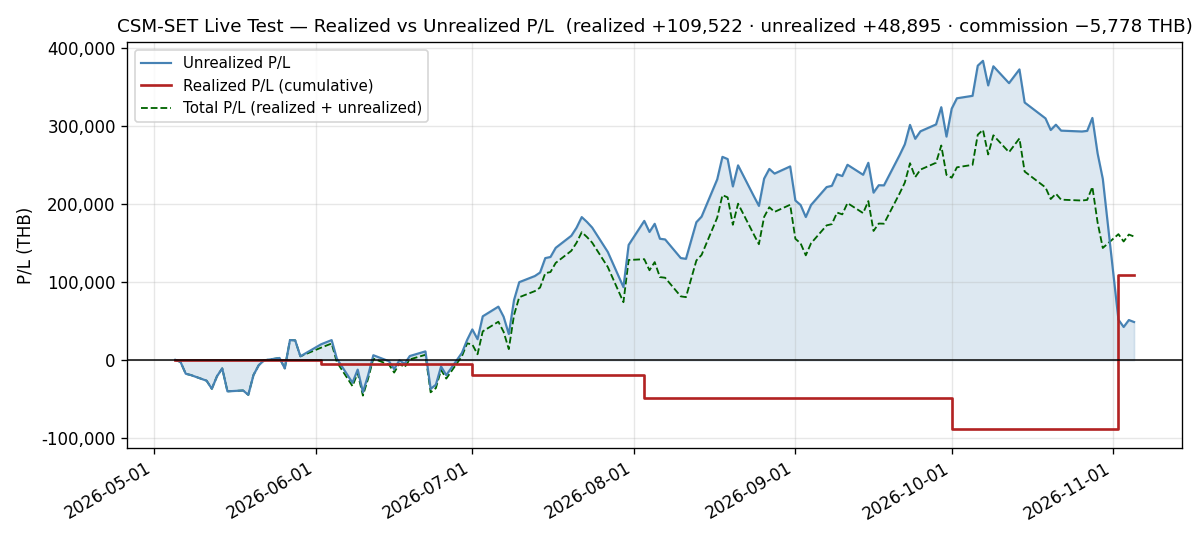
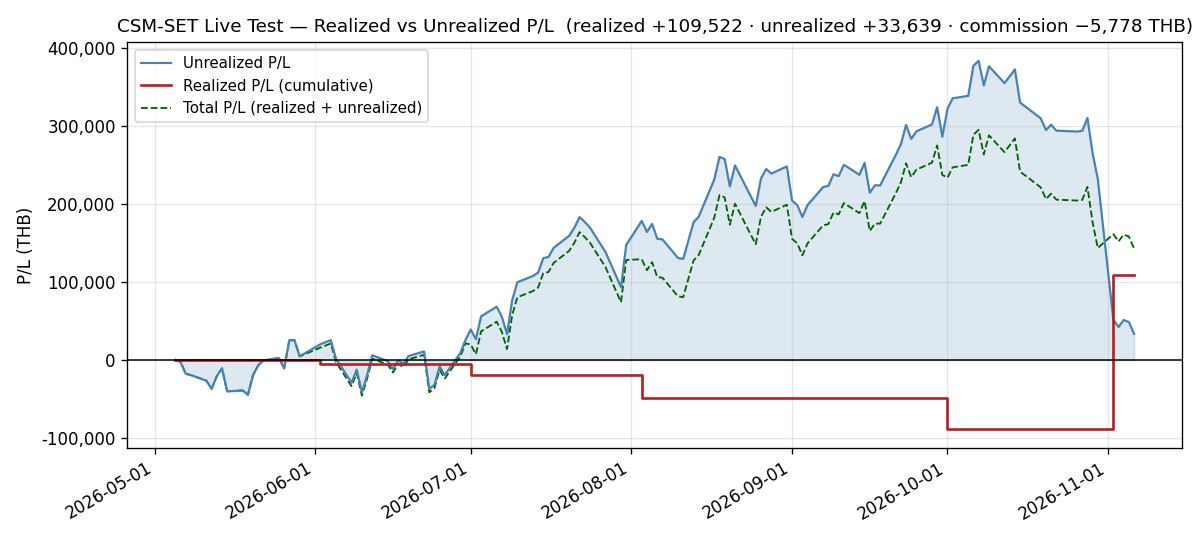
docs(live-test): add the 2026-11-06 daily log — scored session 5 of 41, NAV −1.1949%, the window's first close below NAV0; the first scheduled refresh on the TK-0657 image ran clean; 3 of 48 holiday polls banked
NAV 1,261,550.32 (−15,256.00, −1.1949%), −0.0483% on NAV0; equals
daily_performance to the satang. 1 up / 9 down: KCE −12.08% (its largest
one-session fall in the panel), SMT −8.33% and HANA −9.09% took −8,650.00.

- Breaker TRIPPED, rolling drawdown −10.7489% (from −9.6696%), the deepest in
  the published NAV series; recovery line 1,342,809.70 is 81,259.38 away.
  Regime BEAR, fifth session; SET −2.1556%, its largest fall since 2026-09-30.
- Refresh 211 / 0 in 126.499 s on image 7e49ed4f6a87; no bound fired, no
  manual trigger (access-log fields parsed, with a positive control).
- Holiday polls: 10 of 94 banked since the settfex 0.26.3 upgrade; on the
  current image 3 of 48, and each of the other 45 logged one INFO line
  (FetchError status_code=401).
- TK-0657 item 3 routed to session:observability (#464) with the operator's
  rulings; no reply at log time.
- pnl.csv +1 row (126); only the P/L PNG regenerated (90522474 -> 14ec8e20).

Claude-Session: https://claude.ai/code/session_01VKyqnmKmz6Hh9ErHRFMhFr

diff --git a/docs/live-test/daily/2026-11-06.md b/docs/live-test/daily/2026-11-06.md
@@ -1,0 +1,285 @@
+# Daily Log — 2026-11-06 (Friday)
+
+**As of:** 2026-11-06, Asia/Bangkok
+**Phase:** D — Final Evaluation & Documentation
+**Day:** 127 / 36 trading days remaining in 2026
+**Status:** 🟢 **SCORED — session 5 of 41 in the registered window** (`reports/2026-10-27-forward-scoring-pre-registration.md`). **NAV closes at 1,261,550.32 THB, −15,256.00 (−1.1949%) on the session and −0.0483% on NAV₀ = 1,262,159.89**, the window's first close below NAV₀. **1 name rose and 9 fell**; KCE (−12.08%), SMT (−8.33%) and HANA (−9.09%) together took −8,650.00. 🔴 **The circuit breaker stays TRIPPED**, and its rolling drawdown deepened −9.6696% → **−10.7489%**, the deepest in the published NAV series. 🔴 **The regime stays BEAR**; the SET fell −2.1556%. 🟢 **The first scheduled refresh on the TK-0657 image `7e49ed4f6a87` ran clean** (211 / 0), and no bound fired. On this image **3 of 48 holiday polls banked**, and each of the other 45 logged one INFO line, all `FetchError status_code=401` (Risk Note 7). Total Return on NAV is **+12.64%**.
+
+---
+
+## Execution Summary
+
+**No trades today.** The book is the one recorded from the 2026-11-02 rotation (`configs/live_portfolio.yaml` at `2f846b0`), unchanged since. Realized P/L for the session is **0.00 THB** and no commission was paid. **The breaker's safe mode acts only at a month-end evaluation**, so equity at 18.4989% of NAV creates no trade. The next evaluation is **2026-11-30** (registration §3).
+
+---
+
+## Portfolio Snapshot
+
+> 🟢 **Every figure in this section is SCORED-WINDOW data, session 5.** It is `configs/live_portfolio.yaml` at `2f846b0` repriced against the 2026-11-06 bar of `data/processed/prices_latest.parquet`, and it **equals** the `db_gateway.daily_performance` row the 18:00 refresh wrote.
+
+`Avg Cost` is the commission-inclusive per-share basis carried from `configs/live_portfolio.yaml` (4-decimal precision); `Cost Basis = shares × Avg Cost`, and `U.PL % = MV / Cost Basis − 1`.
+
+| # | Symbol | Shares | Avg Cost | Last Price | Market Value (THB) | Cost Basis (THB) | U.PL % |
+|---|--------|-------:|---------:|-----------:|--------------------:|-----------------:|-------:|
+| 1 | IRPC | 11,300 | 2.3037 | 2.42 | 27,346.00 | 26,031.81 | +5.05% |
+| 2 | HANA | 600 | 35.8070 | 37.50 | 22,500.00 | 21,484.20 | +4.73% |
+| 3 | GUNKUL | 6,100 | 2.9246 | 4.78 | 29,158.00 | 17,840.06 | +63.44% |
+| 4 | INSET | 8,400 | 3.0848 | 4.46 | 37,464.00 | 25,912.32 | +44.58% |
+| 5 | KCE | 500 | 39.0655 | 58.25 | 29,125.00 | 19,532.75 | +49.11% |
+| 6 | EPG | 3,400 | 5.9099 | 5.45 | 18,530.00 | 20,093.66 | −7.78% |
+| 7 | SMT | 4,000 | 5.8097 | 6.60 | 26,400.00 | 23,238.80 | +13.60% |
+| 8 | CNT | 3,600 | 3.3456 | 3.10 | 11,160.00 | 12,044.16 | −7.34% |
+| 9 | SPRC | 1,200 | 13.8232 | 13.30 | 15,960.00 | 16,587.84 | −3.78% |
+| 10 | SSP | 2,200 | 7.7129 | 7.15 | 15,730.00 | 16,968.38 | −7.30% |
+
+### Portfolio summary
+
+| Metric | Value |
+|--------|-------|
+| Total Cost Basis | 199,733.98 THB |
+| Total Market Value | 233,373.00 THB |
+| Unrealized P/L | +33,639.02 THB (+16.84%) |
+| Realized P/L (today) | 0.00 THB |
+| Realized P/L (cumulative, since inception) | **+109,521.83 THB** |
+| Commission paid (cumulative) | **−5,777.54 THB** |
+
+### Account summary
+
+| Metric | Value |
+|--------|-------|
+| Remaining Cash | 1,028,177.32 THB |
+| Total NAV | 1,261,550.32 THB |
+| Total Return on NAV | +12.64% |
+
+> **Cost-basis note:** Total Cost Basis is **199,733.98 THB**, equal to Σ per-symbol `shares × avg_cost` with a **0.00** delta, unchanged since the rotation.
+>
+> **Above/below cost: 6 up / 4 down.** **EPG crossed below cost** (−7.78%, from +0.68% on 2026-11-05) and joins **CNT** (−7.34%), **SSP** (−7.30%) and **SPRC** (−3.78%).
+>
+> **Equity is 18.4989% of NAV** (233,373.00 of 1,261,550.32), down from 19.4727%. The breaker acts only at the month-end evaluation.
+>
+> **Total P/L check:** realized + unrealized = 109,521.83 + 33,639.02 = **+143,160.85 THB**, down from +158,416.85 by **15,256.00**, exactly the session's NAV change.
+
+---
+
+## Day-over-Day Change (vs Thursday November 5)
+
+| Symbol | Nov 5 Close | Nov 6 Close | Change | Change % | MV Contribution (THB) |
+|--------|------------:|------------:|-------:|---------:|----------------------:|
+| SPRC | 13.20 | 13.30 | +0.10 | +0.76% | +120.00 |
+| CNT | 3.20 | 3.10 | -0.10 | -3.13% | -360.00 |
+| GUNKUL | 4.94 | 4.78 | -0.16 | -3.24% | -976.00 |
+| IRPC | 2.52 | 2.42 | -0.10 | -3.97% | -1,130.00 |
+| INSET | 4.66 | 4.46 | -0.20 | -4.29% | -1,680.00 |
+| SSP | 7.55 | 7.15 | -0.40 | -5.30% | -880.00 |
+| SMT | 7.20 | 6.60 | -0.60 | -8.33% | -2,400.00 |
+| EPG | 5.95 | 5.45 | -0.50 | -8.40% | -1,700.00 |
+| HANA | 41.25 | 37.50 | -3.75 | -9.09% | -2,250.00 |
+| KCE | 66.25 | 58.25 | -8.00 | -12.08% | -4,000.00 |
+| **Total** | | | | **-6.14%** | **-15,256.00** |
+
+**Breadth: 1 up, 9 down, 0 flat.**
+
+> The `Change %` on the Total row is the **market-value** change (−15,256.00 / 248,629.00 = −6.1361%), not the NAV change (−15,256.00 / 1,276,806.32 = −1.1949%). They differ by the cash in the NAV denominator, 80.53% of the prior session's NAV in safe mode.
+
+**Nine of ten names fell, and the three ETRON names took more than half of the loss.**
+
+- **KCE −12.08% (−4,000.00), SMT −8.33% (−2,400.00) and HANA −9.09% (−2,250.00)** took −8,650.00, 56.70% of the session's −15,256.00.
+- **KCE's −12.08% is its largest one-session fall in the panel**, which starts 2024-05-17 for this name. It closed at its lowest since 2026-09-09, and HANA at its lowest since 2026-08-11. No prior close was restated (Notes), so the fall is not a vendor back-adjustment of history.
+- **SMT's −8.33% is its largest fall since 2026-06-23**, and it closed at its lowest since 2026-10-01. **EPG −8.40% (−1,700.00)** closed at its lowest since 2026-06-23 and below cost. **SSP's −5.30% is its largest fall since 2025-09-24.**
+- **SPRC +0.76% (+120.00) was the only riser.**
+- **The book fell −1.1949% against a SET that fell −2.1556%**, a **+0.9607pp** difference. It is a same-session arithmetic result for a book that is 81.50% cash, not a performance comparison (Market Context).
+
+---
+
+## Market Context
+
+| Indicator | Value | Source |
+|-----------|-------|--------|
+| SET Index | 1,465.70 | tvkit (TradingView) |
+| SET Open / High / Low | 1,476.21 / 1,483.20 / 1,461.08 | tvkit |
+| SET 200-day SMA | 1,518.5356 | tvkit (TradingView) |
+| Regime Estimate | BEAR | SET −3.48% below SMA200 |
+
+> ⚠ **This is context, NOT a benchmark comparison, and it must not be read as one.**
+>
+> - **Different price bases.** `SET:SET` is a **price index**; the strategy series above is priced on **dividend-adjusted** bars (since `e04a292`, 2026-08-09). The difference is one-sided in the strategy's favour, and it is not small: measured 2026-09-11 over 2024-03-19 → 2026-09-10, the dividend adjustment is worth **+12.09 percentage points** on this universe, roughly **+4.8%/yr**.
+> - **No alpha, excess return or outperformance figure is computed anywhere in this log.** The registration's tracking error against this index is reported in Risk Note 1 as a risk metric (§5).
+
+---
+
+## Regime State
+
+- **Detected regime:** 🔴 **BEAR**, the fifth session. SET (1,465.70) is **below** SMA200 (1,518.5356) by −3.4794%.
+- **SMA200 position:** 1,518.5356, with the SET closing 52.84 points under it.
+- **3-month return:** −9.63% (window-sensitive — see Notes).
+- **The engine's own `RegimeDetector.detect()` also returns BEAR**: price below SMA200, and a 63-session return of **−9.22%** against its −5% threshold.
+- **No regime-driven action under the registration.** The regime filter is not one of the registered rules (§4). The SET closed −6.15% below its own EMA100 and −3.19% below its EMA200; both are reported and not applied.
+
+**The last six closes read 1,518.59 → 1,507.20 → 1,491.01 → 1,502.09 → 1,497.99 → 1,465.70.**
+
+- **Today:** a **−32.29 point, −2.1556%** session, the second fall in a row. The index is **−9.6301%** below the 2026-09-08 high.
+- **The SET's largest one-session fall since 2026-09-30, and its lowest close since 2026-04-24**, on bars fetched back to 2020-08-26.
+- **Range:** **22.12 points**, against 12.03 the prior session. The index opened at 1,476.21, reached 1,483.20, and closed 4.62 above its low.
+- **Cushion fell −1.2842% → −3.4794%, a −2.1952pp step**, its lowest since 2025-08-01 in a cushion series that starts 2021-06-28. SMA200 rose to **1,518.5356** (+1.0580).
+- **A BEAR→BULL crossing needs the index 52.84 points higher**, +3.60% at today's SMA200.
+
+The 3-month figure moved from −7.74% to −9.63%, its start bar moving from 2026-07-31 (1,623.64) to 2026-08-03 (1,621.90).
+
+---
+
+## Sector Concentration
+
+Groupings are SET-official, as on 2026-11-02. The book is held at about 20% equity by the breaker's safe mode.
+
+| Sector | Market Value (THB) | % of NAV | % of stocks held | Limit (NAV) | Status |
+|--------|--------------------:|---------:|-----------------:|-------------|--------|
+| Energy & Utilities (ENERG) | 88,194 | 6.9909% | 37.7910% | 35% | OK on NAV |
+| Electronic Components (ETRON) | 78,025 | 6.1849% | 33.4336% | 35% | OK on NAV |
+| ICT | 37,464 | 2.9697% | 16.0533% | 35% | OK |
+| Construction Materials (CONMAT) | 18,530 | 1.4688% | 7.9401% | 35% | OK |
+| Construction Services (CONS) | 11,160 | 0.8846% | 4.7820% | — | below the 5% floor by ruling I5 |
+
+- **ENERG still leads at 6.9909% of NAV** (−0.1410pp). **ETRON fell −0.6035pp to 6.1849%** on KCE, HANA and SMT. ICT −0.0961pp on INSET, CONMAT −0.1156pp, CONS −0.0177pp.
+- **The 35% cap is measured on NAV** (I2), and no sector is near it.
+- **As a share of the stocks held, ENERG is 37.79% and ETRON 33.43%.** The two hold 71.22% of the equity sleeve between them. This is recorded for context; it is not the registered measure.
+- **Every position is below the 5% floor**, between 0.8846% (CNT) and 2.9697% (INSET) of NAV. The breaker governs the band (I5), so **these are not deviations**.
+
+---
+
+## Risk Notes
+
+1. 🟢 **SCORED SESSION 5 OF 41.**
+
+   | Measure (registration §5) | Value |
+   |---|---|
+   | NAV₀ (2026-10-30 close) | 1,262,159.89 |
+   | NAV₄ (2026-11-05 close) | 1,276,806.32 |
+   | NAV₅ (2026-11-06 close) | 1,261,550.32 |
+   | r₅ = NAV₅ / NAV₄ − 1 | **−1.1949%** |
+   | Window return to date | **−0.0483%** |
+   | Max drawdown to date (running peak from NAV₀) | **−1.4293%** (2026-11-06, from the 2026-11-02 peak) |
+   | Annualized volatility (n = 5) | 16.77% |
+   | Sharpe, rf = 2% (n = 5) · rf = 0 | −0.20 · −0.08 |
+   | Tracking error vs `SET:SET` (n = 5) | 14.30% |
+
+   **Five returns carry almost no information**, and annualizing them magnifies that. A Sharpe ratio that turned from +4.76 to −0.20 in one session shows how little it says at this sample size. **No criterion is graded before the window ends** (2026-12-30), and §9's power statement applies to every figure here.
+2. 🟢 **`daily_performance` equals this log.** The row reads **1,261,550.32, cash 1,028,177.32**, and `equity_curve` agrees.
+   - `daily_return` (−1.1949%) equals the day-over-day change to within 2×10⁻¹⁹.
+   - `cumulative_return` reads −1.4293% and `combined_drawdown` −1.4293%: both are measured from `entry_date` 2026-11-02. They are not the scored series (§5). They equal the window's drawdown today only because the window's peak is the 2026-11-02 close.
+3. 🔴 **CIRCUIT BREAKER — TRIPPED, threaded one session (I4).**
+   - **Procedure:** `DrawdownCircuitBreaker` with the recorded parameters (60 sessions, −10% trip, −5% recovery held 21 sessions), called with the state carried from 2026-11-05 (TRIPPED, recovery progress 0) on the published NAV series. It returns **TRIPPED**, rolling drawdown **−10.7489%**, equity fraction **0.20**, no transition.
+   - The drawdown deepened from −9.6696% on 2026-11-05, back below the −10% trip line. **It is the deepest rolling drawdown in the published NAV series**, which starts 2026-05-04; the trip session, 2026-10-30, read −10.7057%. The breaker is already TRIPPED, so a deeper drawdown changes nothing.
+   - The 2026-10-07 peak (1,413,483.89) is still the window's high.
+   - **Recovery** starts when the rolling drawdown rises above −5%, at NAV **1,342,809.70**. That is **81,259.38 (+6.4412%)** above today's NAV. From a book 18.50% in stocks, it needs the equity sleeve to rise about **34.82%**.
+   - **The 1,064,000 THB line** (5% below `starting_nav`) has NAV **+197,550.32** (15.66%) above it. Under the registration it is a reporting line and carries no action.
+4. 🔴 **REGIME — BEAR, the fifth session** (Regime State). Under the registration it changes nothing. The transition is recorded in `events/2026-11-02-regime-transition-bull-to-bear.md`.
+5. 🟢 **EXECUTION — CLOSED** by the operator's ruling of 2026-11-04: the operator places every order by hand (registration §12; `events/2026-11-03-rotation-orders-placed-as-limit-orders.md`). Nothing changed since.
+6. 🟢 **REFRESH — the first scheduled firing on the TK-0657 image `7e49ed4f6a87` ran clean.** It started at 11:00:00Z and completed at 11:02:08Z with receipt 211 / 0, in 126.499 s.
+   - **No bound fired.** The container log since the image started holds no "Failed to fetch symbol" line, no "timed out" line and no "daily_refresh exceeded" line, and every symbol came back on attempt 1.
+   - **What this shows, and what it does not.** A clean run shows the bounds do not get in the way of a normal refresh. It does not show them working in production, because nothing hung. That is shown by the tests that shipped with the fix, each seen failing first on a version without its bound. [[TK-0657]]
+7. ⚠ **HOLIDAY POLL — 10 of 94 polls banked since the settfex 0.26.3 upgrade (10.6%); 3 of 48 on the current image.**
+
+   | Window | Image | Poll runs | Banked | Failure lines |
+   |---|---|---:|---:|---|
+   | 2026-11-04T12:20:14Z → 2026-11-05T10:50:14Z | `db0cb596918c` | 46 | 7 | none (failures logged at DEBUG) |
+   | 2026-11-05T11:26:33Z → 2026-11-06T10:56:33Z | `7e49ed4f6a87` | 48 | 3 | 45, all `FetchError status_code=401` |
+   | **Total** | | **94** | **10** | |
+
+   - **How it is counted.** Runs are the container's INFO "Running job … _holiday_poll_wrapper" lines. Banked polls are the rewrites of `results/.tmp/set_holidays.json` that a read-only observer recorded; the file is rewritten only after a successful poll.
+   - **On the current image every run has exactly one outcome**: 3 rewrites and 45 failure lines make 48. So the INFO line is doing its job.
+   - **One poll is not counted.** A poll was due at about 11:20:14Z on 2026-11-05, in the old container, after its log was last saved and before the deploy. Its log went with that container. The observer saw no rewrite then, so if it ran, it failed.
+   - **Exposure:** polls banked on every day so far, by Bangkok date (2026-11-04: 2, 2026-11-05: 5, 2026-11-06: 3). The 18:00 firing used the calendar banked at 03:26:33Z, and the 15 polls after it failed.
+   - **Next:** the observer runs until about 2026-11-07 19:33 BKK. The full figure then goes to the operator, to the settfex session, and to #461 (no reply from `session:pm` yet).
+8. 🟢 **INFRA — the TK-0657 fix was deployed on 2026-11-05, as planned maintenance; item 3 is routed.**
+   - **The deploy**, after that day's log and announced to the operator on 2026-11-04 before it began:
+     - merge `09c20eb`, with Security CI green;
+     - rollback tag `csm-set-csm:rollback-20261105` → `db0cb596918c`;
+     - image `7e49ed4f6a87`, built 2026-11-05 18:22:07 BKK with `--pull`, gated without a network;
+     - container `Created` 2026-11-05T11:25:48Z, after that day's 18:00 firing had completed, so no firing was missed.
+   - **Done-when items 1 and 2 are met** (the bounds, and the tests). This session's refresh is their first production run (Risk Note 6).
+   - **Item 3, a same-evening alert when the receipt is missing, is routed to `session:observability` as #464**, by the operator's choice on 2026-11-06. quant-monitor already grades a missing strategy report RED after 22:30 BKK, but that grade reaches no alert, and HOME has no Slack webhook for it.
+     - **The operator's rulings on 2026-11-06 (about 11:23 BKK):** the alert posts to the PM channel, and the 22:30 BKK due time stays.
+     - **At the time of this log #464 has no reply from `session:observability`.** Until it ships, a run cut off at the bound shows as one ERROR line, and after 22:30 BKK as a RED strategy row that pages nobody.
+   - **Images:** `rollback-20261104` (`73a1ace1eaee`) is kept until about 2026-11-12.
+9. 🟢 **Bands, by ruling.** The 35% cap is measured on NAV, where ENERG leads at 6.9909% (I2). Every position is below the 5% floor (I5). [[TK-0279]]
+10. 🟢 **The uncredited dividend total holds at 8,927.00 THB**: KCE 1,560.00, INSET 2,100.00, MGC 2,208.00, FORTH 795.00, IRPC 2,264.00.
+    - That is **0.71% of NAV** and **6.24%** of the +143,160.85 total P/L.
+    - The registration reports dividends beside each score and does not credit them (§8).
+11. ⚠ **DOC — the `csm-set-daily-log` skill's `daily_return` guidance remains stale.** Its Step 3 still calls the field *"an open defect, not yet fixed in code"*; it was fixed 2026-09-02, and today's row shows it (Risk Note 2). **Forty-first log to carry this.**
+12. **Open decisions — answered for the scored window, by the registration's §8 and §12 and the 2026-10-31 rulings.**
+
+    | Decision | Registered for the window |
+    |---|---|
+    | EMA100 | per holding |
+    | Bands | bind at construction, on the names being traded; the breaker governs them in safe mode (I5) |
+    | Sector cap | measured on NAV, checked on the scaled book (I2) |
+    | Breaker state | advances every trading session (I4) |
+    | Price history | the published NAV, frozen at publication |
+    | Dividends | not credited, reported beside each score |
+    | Fill rule | the operator places every order by hand (amendment of 2026-11-04, registration §12) |
+
+---
+
+## Notes
+
+- **Scheduled refresh completed via APScheduler with zero failures.**
+  - `"Scheduled daily_refresh completed"` at **2026-11-06T11:02:08Z** (18:02 BKK).
+  - It was the 18:00 cron firing (`cron[... day_of_week='mon-fri', hour='18', minute='0']`, started 11:00:00Z).
+  - Receipt: `symbols_fetched=211, failures=0, duration_seconds=126.499, held_symbols_fetched=10, held_symbols_failed=0, retry_attempts_used=0, index_fetched=true`, corroborated by `results/.tmp/last_refresh.json`.
+  - The held phase ended `requested=10 recovered=10 still_failing=0` at 11:00:11Z, and the universe phase `requested=201 recovered=201 still_failing=0` at 11:01:49Z. The gateway accepted the daily report (`201`) at 11:02:08Z.
+  - The cron trigger is unchanged (Monday to Friday, 18:00), so the next firing is 2026-11-09 18:00 +07.
+- **No manual trigger, checked on the access log's fields.**
+  - Every access record since the container started was parsed, and its `method` and `path` fields were tested for a `POST` to a path under `/api/v1/scheduler/run`. There were 2,820 access records, all `GET /health`, and no `POST` of any kind.
+  - **Positive control:** the same parse finds a synthetic access record with method `POST` and path `/api/v1/scheduler/run/daily_refresh` appended to a copy of the log. The previous control, the 2026-11-04 rerun, sits in the replaced container's log, not this one.
+- **The log holds no ERROR since the container started.** Of 4,307 JSON records, 4,306 are INFO and one is WARNING: the startup notice that `CSM_API_KEY` is unset (2026-11-05T11:26:03Z).
+- **The container runs image `7e49ed4f6a87`**, its first scheduled refresh.
+  - `Created` 2026-11-05T11:25:48Z, `StartedAt` 11:25:50Z, `RestartCount` 0. `FinishedAt` is unset (0001-01-01) because this container has never stopped.
+  - The host has not rebooted since 2026-10-06 (`uptime -s` 2026-10-06 10:46:02).
+- **`SET:THCOM` was fetched with 600 bars again.**
+- **The price panel and the prior log agree on all ten names**, so **nothing was restated**.
+- **The panel's row count fell 904 → 903.** Every row still carries a 09:55 Bangkok stamp, the column count is unchanged at **211**, and no session date is duplicated.
+- **Row-integrity checks pass.** `db_csm_set.equity_curve` holds **exactly one row per trading day at `00:00:00+00`** (126 rows, 126 dates, none off midnight), and today's row equals `daily_performance.total_value`.
+- **`configs/live_portfolio.yaml` is unchanged** since `2f846b0`.
+- **The P/L identity holds.** `realized_cum + unrealized − (NAV − starting_nav)` = 109,521.83 + 33,639.02 − 141,550.32 = **1,610.53 THB**, unchanged.
+- **Every figure was verified rather than asserted.**
+  - Σ position market value equals Total Market Value exactly (233,373.00).
+  - **Total NAV (1,261,550.32) equals `db_gateway.daily_performance.total_value` to the satang**, and cash equals the YAML's 1,028,177.32.
+  - The contributions sum to the session's NAV change (−15,256.00) exactly.
+  - The sector table sums to Total Market Value exactly.
+  - Σ per-symbol cost basis matches Total Cost Basis with a **0.00** delta, and the position count is 10.
+  - All money arithmetic used `Decimal` with explicit half-up rounding, and so did SMA200.
+- **Realized P/L and commission ledger, unchanged.**
+  - Realized cumulative **+109,521.83 THB**: 2026-06-02 −4,351.87 · 2026-07-01 −14,964.06 · 2026-08-03 −29,775.45 · 2026-10-01 −39,365.29 · 2026-11-02 +197,978.50.
+  - Commission cumulative **−5,777.54 THB**: 05-05 1,611.15 · 06-02 984.44 · 06-04/05 169.09 · 07-01 287.83 · 08-03 682.65 · 10-01 201.81 · 11-02 1,840.57.
+- **Capital events to date, unchanged.** `starting_nav` 1,120,000 after 1,000,000 → 1,100,000 (2026-06-04, +100,000) → 1,120,000 (2026-08-03, +20,000).
+- **Every superlative was computed, and each names its window.**
+
+  | Claim | Window | Source |
+  |---|---|---|
+  | KCE's largest one-session fall; the KCE, HANA, SMT and EPG lows; the SMT and SSP falls | the whole panel, which starts 2024-05-17 for these names | the panel |
+  | The book's largest one-session fall since 2026-10-30, and its lowest NAV since 2026-09-03 | the published NAV series, from 2026-05-04 | `daily_performance` |
+  | The deepest rolling drawdown | the published NAV series, from 2026-05-04 | the procedure |
+  | The SET's largest fall since 2026-09-30, its lowest close since 2026-04-24, and the cushion's lowest since 2025-08-01 | bars fetched back to 2020-08-26; the cushion series starts 2021-06-28 | tvkit |
+  | `total_pl` at its lowest since 2026-09-03 | `pnl.csv`, from 2026-05-05 | the CSV |
+- **The book's session.** −15,256.00 is its largest one-session fall since 2026-10-30, in THB and in percent, and NAV is at its lowest since 2026-09-03.
+- **3-month return figure is window-sensitive.** −9.63% is measured over the trailing 66 bars from today's close (start bar 2026-08-03, 1,621.90). The engine's 63-session figure is −9.22%. The regime estimate uses the SMA200 only.
+- **Follow-ups for the next session (Monday 2026-11-09 18:00 +07).**
+
+  | | Item | Level |
+  |---|---|---|
+  | (a) | the breaker state, threaded once | TRIPPED; rolling drawdown −10.7489%; recovery above 1,342,809.70 |
+  | (b) | the regime | BEAR; 52.84 points to a BULL crossing |
+  | (c) | the holiday-poll figure over the observer's full 72 hours | ends about 2026-11-07 19:33 BKK |
+  | (d) | TK-0657 item 3 (#464) | waiting on `session:observability` |
+  | (e) | the weekly report for 2026-11-02 → 2026-11-06 | due; the next piece of work |
+
+  **The five follow-ups from 2026-11-05 are closed above:**
+  - (a) Risk Note 3; (b) Risk Note 4;
+  - (c) Risk Note 6: the first scheduled refresh on `7e49ed4f6a87` ran clean;
+  - (d) Risk Note 7: 3 of 48 polls banked on this image, and every failure logged one INFO line;
+  - (e) Risk Note 8: item 3 is routed to #464, with the operator's rulings.
+- **Calendar.** 2026-11-06 was a trading session.
+  - The 18:00 firing read the banked SET holiday calendar (`results/.tmp/set_holidays.json`) at `captured_at 2026-11-06T03:26:33Z`.
+  - The banked calendar lists the remaining 2026 closures as **2026-12-07**, **2026-12-10** and **2026-12-31**. The next session is **2026-11-09**.
+  - No trading hours are stated anywhere in this log.
+- Data fetched via tvkit (TradingView, free tier): all 10 held-symbol prices from the 18:00 BKK scheduled-cron refresh; SET Index context anchored explicitly to the 2026-11-06 bar. ⚠ **The vendor back-adjusts a symbol's entire history on an ex-dividend date**, so any prior-session price quoted here is the vendor's *current* view of that session and not necessarily what was published at the time.

diff --git a/docs/live-test/graphs/README.md b/docs/live-test/graphs/README.md
@@ -1,9 +1,9 @@
 # Live-Test Charts — how these are generated
 
-_🟢 **The three NAV charts are on the October month-end, 2026-10-30; the P/L chart is newer, 2026-11-05.** The three **NAV** charts
+_🟢 **The three NAV charts are on the October month-end, 2026-10-30; the P/L chart is newer, 2026-11-06.** The three **NAV** charts
 (`equity_curve`, `drawdown`, `monthly_returns`) were regenerated on 2026-10-30 from `nav_actual.csv` /
 `nav_twr.csv` extended to **121 points** (2026-05-04 → 2026-10-30). `pnl_realized_unrealized.png` was
-regenerated on 2026-11-05 from `pnl.csv` (**125 rows**, through 2026-11-05; its newest realized step is the 2026-11-02 rotation's). ⚠ **The September rows of the two NAV CSVs
+regenerated on 2026-11-06 from `pnl.csv` (**126 rows**, through 2026-11-06; its newest realized step is the 2026-11-02 rotation's). ⚠ **The September rows of the two NAV CSVs
 come from `db_gateway.daily_performance`, not `equity_curve`** — IRPC's 2026-09-09 restatement rewrote the
 `equity_curve` rows it would otherwise have supplied; see the 2026-09-30 History entry. **The October rows
 are the published daily-log NAVs**, which equal `equity_curve` on every October session; `daily_performance`
@@ -262,14 +262,24 @@ restatement has rewritten `equity_curve` rows inside the month being appended, *
 | `monthly_returns.png` | May **+0.33%** · Jun **+1.44%** · Jul **+9.53%** · Aug **+5.68%** · Sep **+2.90%** · Oct **−6.90%** (no flow in September or October, so the TWR and actual-NAV figures agree for both) |
 | **August bar is the TWR figure** | **+5.68%**, NOT the reported +7.40% and NOT the ex-injection +5.77%. Feeding `nav_actual.csv` instead reproduces the documented failure mode — **Jun +11.62%** and Aug +7.40% |
 | June bar vs the June review | must read **+1.44%**, not +11.62% |
-| `pnl_realized_unrealized.png` *(the 2026-11-05 PNG, through 11-05)* | realized **+109,521.83** · unrealized **+48,895.02** · commission **−5,777.54** THB; the realized line is **flat except at 2026-06-02, 2026-07-01, 2026-08-03, 2026-10-01 and 2026-11-02** — **five** steps, the last one upward. *(The 2026-11-04 PNG read the same realized and commission with unrealized +51,445.02 at 124 points; the 2026-11-03 PNG read the same realized and commission with unrealized +42,526.02 at 123 points; the 2026-11-02 PNG read the same realized and commission with unrealized +51,932.02 at 122 points; the 2026-10-30 PNG read realized −88,456.67 · unrealized +232,227.03 · commission −3,936.97 at 121 points, with four steps; the 2026-10-29 PNG read the same realized and commission with unrealized +264,919.03 at 120 points; the 2026-10-28 PNG read the same realized and commission with unrealized +310,400.03 at 119 points; the 2026-10-27 PNG read the same realized and commission with unrealized +293,787.03 at 118 points; the 2026-10-26 PNG read the same realized and commission with unrealized +293,003.03 at 117 points; the 2026-10-22 PNG read the same realized and commission with unrealized +294,101.03 at 116 points; the 2026-10-21 PNG read the same realized and commission with unrealized +301,696.03 at 115 points; the 2026-10-20 PNG read the same realized and commission with unrealized +294,904.03 at 114 points; the 2026-10-19 PNG read the same realized and commission with unrealized +309,815.03 at 113 points; the 2026-10-15 PNG read the same realized and commission with unrealized +330,143.03 at 112 points; the 2026-10-14 PNG read the same realized and commission with unrealized +372,572.03 at 111 points; the 2026-10-12 PNG read the same realized and commission with unrealized +354,949.03 at 110 points; the 2026-10-09 PNG +376,567.03 at 109; the 2026-10-08 PNG +352,021.03 at 108; the 2026-10-07 PNG +383,551.03 at 107; the 2026-10-06 PNG +377,303.03 at 106; the 2026-10-05 PNG +338,709.03 at 105; the 2026-10-02 PNG +335,559.03 at 104; the 2026-10-01 PNG +322,278.03 at 103.)* *(The 2026-08-31 PNG read:* realized **−49,091.38** · unrealized **+248,232.35** · commission **−3,735.16** THB; the realized line is **flat except at 2026-06-02, 2026-07-01 and 2026-08-03** — **three** steps.) *(The superseded 2026-08-28 render showed −49,091.38 / +239,078.35 at 79 points; the 2026-08-27 one showed −49,091.38 / +245,069.35 at 78 points; the 2026-08-26 one showed −49,091.38 / +232,605.35 at 77 points; the 2026-08-25 one showed −49,091.38 / +197,671.35 at 76 points; the 2026-08-24 one showed −49,091.38 / +210,441.35 at 75 points; the 2026-08-21 one showed −49,091.38 / +249,619.35 at 74 points; the 2026-08-20 one showed −49,091.38 / +222,599.35 at 73 points; the 2026-08-19 one showed −49,091.38 / +257,693.35 at 72 points; the 2026-08-18 one showed −49,091.38 / +260,527.35 at 71 points; the 2026-08-17 one showed −49,091.38 / +231,713.35 at 70 points; the 2026-08-14 one −49,091.38 / +183,951.35 at 69 points; the 2026-08-12 one −49,091.38 / +129,844.35 at 67 points; the 2026-08-01 one −19,315.93 / +147,665.89 / −3,052.51 and only two steps.)* |
-| `pnl.csv` last row *(the CSV and the P/L PNG are in sync — see the header)* | 2026-11-05: realized **+109,521.83** · unrealized **+48,895.02** · total **+158,416.85** · commission **5,777.54** THB; **125 rows**, matching `equity_curve`'s 125 **in row count only** *(↻ this row read 2026-08-31 / 80 rows until 2026-10-02: the September daily runs extended the CSV without updating it; it is updated with each session's History entry since)* — the values diverge historically after the KCE, INSET, MGC *and* FORTH restatements (see the header caveat) |
+| `pnl_realized_unrealized.png` *(the 2026-11-06 PNG, through 11-06)* | realized **+109,521.83** · unrealized **+33,639.02** · commission **−5,777.54** THB; the realized line is **flat except at 2026-06-02, 2026-07-01, 2026-08-03, 2026-10-01 and 2026-11-02** — **five** steps, the last one upward. *(The 2026-11-05 PNG read the same realized and commission with unrealized +48,895.02 at 125 points; the 2026-11-04 PNG read the same realized and commission with unrealized +51,445.02 at 124 points; the 2026-11-03 PNG read the same realized and commission with unrealized +42,526.02 at 123 points; the 2026-11-02 PNG read the same realized and commission with unrealized +51,932.02 at 122 points; the 2026-10-30 PNG read realized −88,456.67 · unrealized +232,227.03 · commission −3,936.97 at 121 points, with four steps; the 2026-10-29 PNG read the same realized and commission with unrealized +264,919.03 at 120 points; the 2026-10-28 PNG read the same realized and commission with unrealized +310,400.03 at 119 points; the 2026-10-27 PNG read the same realized and commission with unrealized +293,787.03 at 118 points; the 2026-10-26 PNG read the same realized and commission with unrealized +293,003.03 at 117 points; the 2026-10-22 PNG read the same realized and commission with unrealized +294,101.03 at 116 points; the 2026-10-21 PNG read the same realized and commission with unrealized +301,696.03 at 115 points; the 2026-10-20 PNG read the same realized and commission with unrealized +294,904.03 at 114 points; the 2026-10-19 PNG read the same realized and commission with unrealized +309,815.03 at 113 points; the 2026-10-15 PNG read the same realized and commission with unrealized +330,143.03 at 112 points; the 2026-10-14 PNG read the same realized and commission with unrealized +372,572.03 at 111 points; the 2026-10-12 PNG read the same realized and commission with unrealized +354,949.03 at 110 points; the 2026-10-09 PNG +376,567.03 at 109; the 2026-10-08 PNG +352,021.03 at 108; the 2026-10-07 PNG +383,551.03 at 107; the 2026-10-06 PNG +377,303.03 at 106; the 2026-10-05 PNG +338,709.03 at 105; the 2026-10-02 PNG +335,559.03 at 104; the 2026-10-01 PNG +322,278.03 at 103.)* *(The 2026-08-31 PNG read:* realized **−49,091.38** · unrealized **+248,232.35** · commission **−3,735.16** THB; the realized line is **flat except at 2026-06-02, 2026-07-01 and 2026-08-03** — **three** steps.) *(The superseded 2026-08-28 render showed −49,091.38 / +239,078.35 at 79 points; the 2026-08-27 one showed −49,091.38 / +245,069.35 at 78 points; the 2026-08-26 one showed −49,091.38 / +232,605.35 at 77 points; the 2026-08-25 one showed −49,091.38 / +197,671.35 at 76 points; the 2026-08-24 one showed −49,091.38 / +210,441.35 at 75 points; the 2026-08-21 one showed −49,091.38 / +249,619.35 at 74 points; the 2026-08-20 one showed −49,091.38 / +222,599.35 at 73 points; the 2026-08-19 one showed −49,091.38 / +257,693.35 at 72 points; the 2026-08-18 one showed −49,091.38 / +260,527.35 at 71 points; the 2026-08-17 one showed −49,091.38 / +231,713.35 at 70 points; the 2026-08-14 one −49,091.38 / +183,951.35 at 69 points; the 2026-08-12 one −49,091.38 / +129,844.35 at 67 points; the 2026-08-01 one −19,315.93 / +147,665.89 / −3,052.51 and only two steps.)* |
+| `pnl.csv` last row *(the CSV and the P/L PNG are in sync — see the header)* | 2026-11-06: realized **+109,521.83** · unrealized **+33,639.02** · total **+143,160.85** · commission **5,777.54** THB; **126 rows**, matching `equity_curve`'s 126 **in row count only** *(↻ this row read 2026-08-31 / 80 rows until 2026-10-02: the September daily runs extended the CSV without updating it; it is updated with each session's History entry since)* — the values diverge historically after the KCE, INSET, MGC *and* FORTH restatements (see the header caveat) |
 | The August regeneration *(**done** 2026-08-12, **superseded** by the 2026-08-14, 2026-08-17, 2026-08-18, 2026-08-19, 2026-08-20, 2026-08-21, 2026-08-24, 2026-08-25, 2026-08-26, 2026-08-27, 2026-08-28 and then the 2026-08-31 render)* | ✅ satisfied — the current PNG title reads `realized -49,091 · unrealized +248,232 · commission −3,735 THB`, the series ends 2026-08-31 at 80 points, and the realized line steps **three** times. Verified by eye against the rendered image, not only from the generator's stdout |
 | Only ONE PNG may change on a P/L regeneration | ✅ `gen_pnl_chart.py:118` writes `pnl_realized_unrealized.png` and nothing else. Checksum the four PNGs before and after: the three NAV charts must be **byte-identical** and keep their 2026-08-01 mtimes. Verified 2026-08-14, 2026-08-17, 2026-08-18, 2026-08-19, 2026-08-20, 2026-08-21, 2026-08-24, 2026-08-25, 2026-08-26, 2026-08-27, 2026-08-28 and 2026-08-31 — only the P/L PNG's hash moved on all twelve |
 | P/L reconciliation | `realized_cum + unrealized − (NAV − capital)` = **1,610.53** from 2026-11-02 (**1,610.47** for 2026-10-01 → 2026-10-30, **1,610.27** for 2026-08-03 → 2026-09-30, **1,609.61** for 2026-07-01 → 2026-07-31; every era since 2026-05-05 is listed in §Reconciliation residual, corrected 2026-10-31), and constant *within* each era; the 2026-11-02 step is **+0.06** (SPRC +0.02, SSP −0.08 against their all-in costs) and the 2026-10-01 step **+0.20**, CNT's: 4-dp `avg_cost` rounding both times. A *drifting* residual means a realisation was missed; the one-time **+0.66** step at the rotation is 4-dp `avg_cost` rounding — see above |
 | `commission_cum` | rises **only on the 8 fill dates** (05-05, 06-02, 06-04, 06-05, 07-01, 08-03, 10-01, **11-02**); a rise on any other day means a non-trading day was credited with a fill |
 
 ## History
+
+**`pnl.csv` extended through 2026-11-06** on 2026-11-06, appending the **2026-11-06** row — scored session 5,
+a no-trade session. `realized_cum` (+109,521.83) and `commission_cum` (5,777.54) are unchanged, so the realized
+line takes no step. Unrealized falls +48,895.02 → **+33,639.02** and `total_pl` +158,416.85 → **+143,160.85**
+(−15,256.00, exactly the session's NAV change); `total_pl` is at its lowest since 2026-09-03 in this CSV.
+The reconciliation residual holds at **1,610.53**.
+**`pnl_realized_unrealized.png` was regenerated in the same session**, so the two artifacts end together at
+**126 points**; the four PNGs were checksummed (md5) before and after, and the three NAV charts are
+byte-identical (`drawdown` 7df00897…, `equity_curve` 5ab54261…, `monthly_returns` 89088737…), with only the
+P/L chart's hash moving (90522474… → **14ec8e20…**). Checked against the rendered image.
 
 **`pnl.csv` extended through 2026-11-05** on 2026-11-05, appending the **2026-11-05** row — scored session 4,
 a no-trade session. `realized_cum` (+109,521.83) and `commission_cum` (5,777.54) are unchanged, so the realized
